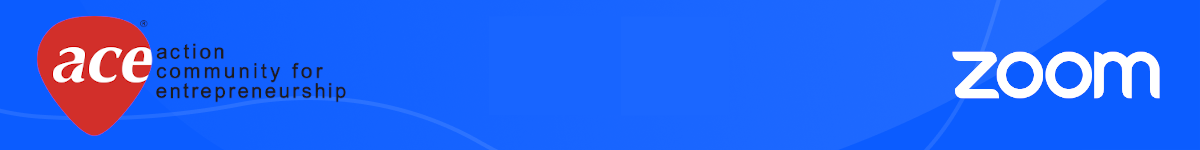
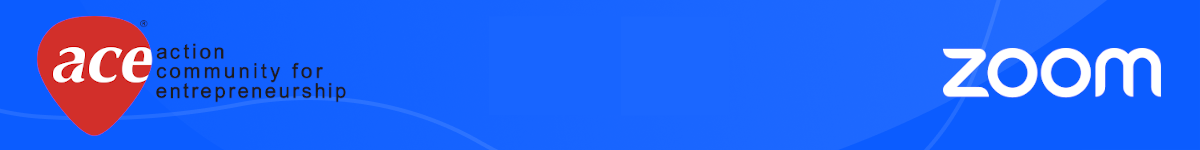
Update header

Changed region(s): [[0.7708, 0.32, 0.9867, 0.6667]]

diff --git a/src/section/EventRegistratonForm.vue b/src/section/EventRegistratonForm.vue
@@ -159,11 +159,18 @@
     <v-col cols="12">
       <v-alert
         v-if="form.errors.any()"
-        density="comfortable" type="error" variant="tonal"
+        density="comfortable"
+        type="error"
+        variant="tonal"
       >
         There were some problems with your input.
       </v-alert>
-      <v-alert v-if="success" density="comfortable" type="success" variant="tonal">
+      <v-alert
+        v-if="success"
+        density="comfortable"
+        type="success"
+        variant="tonal"
+      >
         Register successfully.
       </v-alert>
     </v-col>
@@ -179,14 +186,13 @@ import Form from "vform";
 import { AlertError } from "vform/src/components/tailwind";
 import { useRoute } from "vue-router";
 import { register_url } from "~/data/eventData.json";
-import { computed } from '@vue/runtime-core';
-
+import { computed } from "@vue/runtime-core";
 
 export default {
   setup() {
     const { t } = useI18n();
     const route = useRoute();
-    const path = computed(() => import.meta.env.VITE_baseUrl + route.fullPath)
+    const path = computed(() => import.meta.env.VITE_baseUrl + route.fullPath);
     return { t, CountryList, path };
   },
   components: {
@@ -207,13 +213,27 @@ export default {
       noe: null,
     }),
     industryClassifies: [
+      "Advertising",
+      "Biotech/Pharma",
+      "Communications",
+      "Construction",
+      "Education - Higher-Ed",
+      "Education - K-12",
+      "Education - Other",
+      "Entertainment",
+      "Finance & Insurance",
+      "Government",
+      "Healthcare",
+      "Hospitality",
+      "Legal",
+      "Manufacturing",
       "Non-profit",
+      "Other",
       "Professional Services & Consulting",
       "Real Estate",
       "Retail/Wholesale",
       "Technology",
       "Transportation",
-      "Other",
     ],
     noes: [
       "Just me",

diff --git a/src/layout/LayoutWithLanguage.vue b/src/layout/LayoutWithLanguage.vue
@@ -3,7 +3,7 @@
       <template slot:default class="v-toolbar__content v-container">
         <img class="ace-logo" src="/ace_logo.jpg" style="height: 50px;">
         <v-spacer></v-spacer>
-        <img class="logo" src="/logo.png" />        
+        <img class="logo" src="/logo-blue.svg" />        
         <!-- <v-btn class="text-white bg-primary mr-2" flat>{{ t("login") }}</v-btn>
         <v-btn class="text-white bg-secondary" flat>{{ t("sign up") }}</v-btn> -->
 
